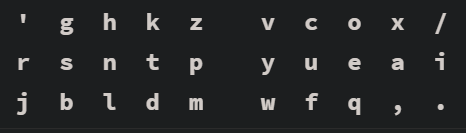
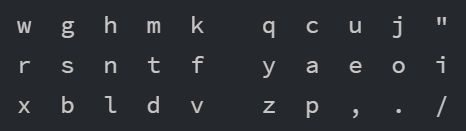
Updated version of Hands Down Alt

diff --git a/keyzen-hands-down/keyzen.js b/keyzen-hands-down/keyzen.js
@@ -6,7 +6,7 @@ var hpm = 0;
 var ratio = 0;
 
 layouts={};
-layouts["hands-down-alt"] = " tunesaripykchogx'/zvdflqb,j.mw;4738291056\"!?:@$%&#*()_ABCDEFGHIJKLMNOPQRSTUVWXYZ~+-={}|^<>`[]\\";
+layouts["hands-down-alt"] = " tanesorifymchugjw'kqdpl,b.x/vz;4738291056\"!?:@$%&#*()_ABCDEFGHIJKLMNOPQRSTUVWXYZ~+-={}|^<>`[]\\";
 layouts["colemak"] = " tnseriaodhplfuwyq;jlvmc,x.z/bk4738291056'\"!?:@$%&#*()_ABCDEFGHIJKLMNOPQRSTUVWXYZ~+-={}|^<>`[]\\";
 layouts["colemak-dh-matrix"] = " tnseriaogmplfuwyq;bjdhc,x.z/vk4738291056'\"!?:@$%&#*()_ABCDEFGHIJKLMNOPQRSTUVWXYZ~+-={}|^<>`[]\\";
 layouts["colemak-dh"] = " tnseriaogmplfuwyq;bjvhd,c.x/zk4738291056'\"!?:@$%&#*()_ABCDEFGHIJKLMNOPQRSTUVWXYZ~+-={}|^<>`[]\\";

diff --git a/index.html b/index.html
@@ -28,5 +28,6 @@
 <body>
     <p>This space intentionally left blank.</p>
     <p><a href="./keyzen-hands-down/index.html">KeyZen Hands Down</a></p>
+    <p><a href="https://ringerkeys.com">Buy something instead?</a></p>
 </body>
 </html>
